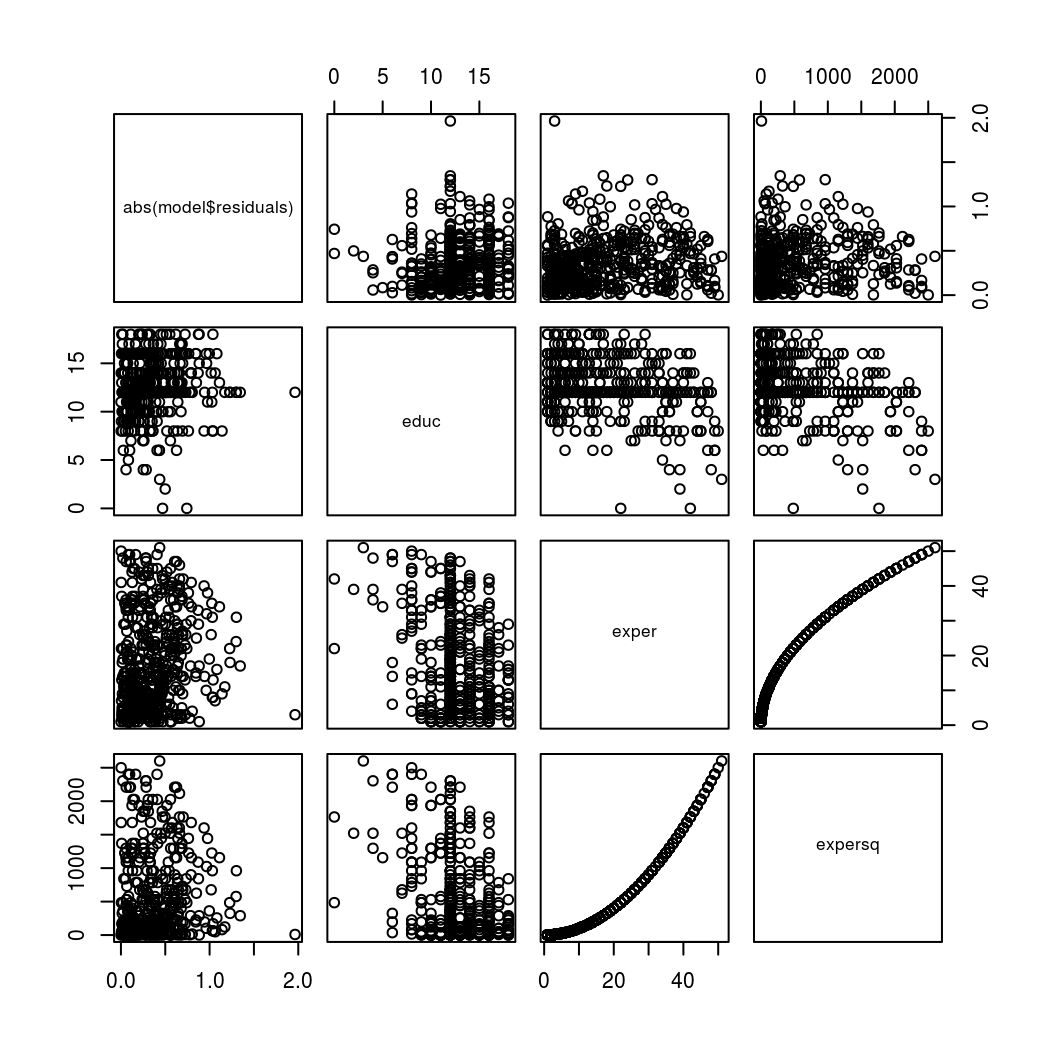
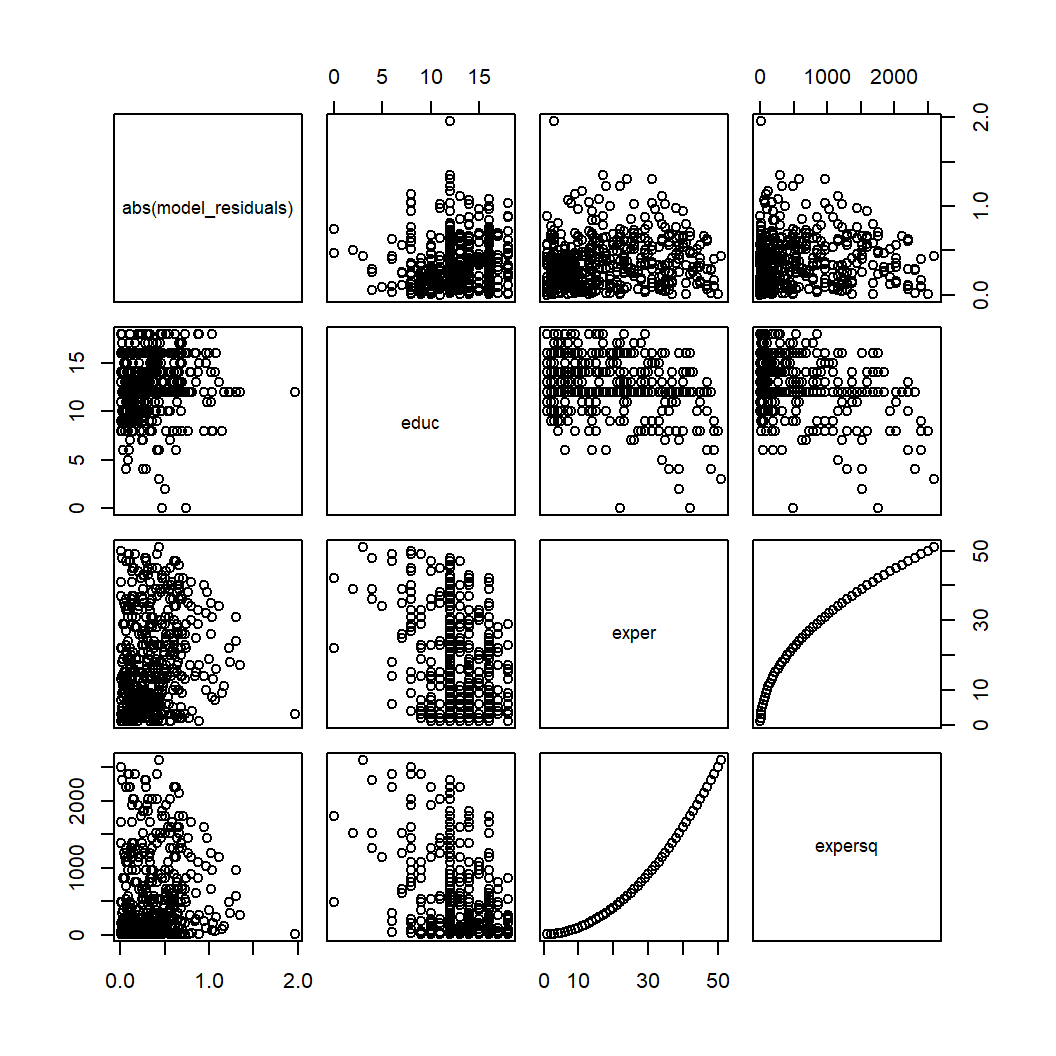
Restyle the code of the test statistics page
Quoted library() calls, [["name"]] accessors and aligned arguments.
The residuals that the normality and heteroskedasticity checks use are
taken once as model_residuals, so the tests print "data:
model_residuals" and the histogram and scatterplot matrix are labelled
with that name instead of model$residuals. Every number is unchanged;
the figures differ only in those labels and in font rendering.

diff --git a/content/methods/teststats.html b/content/methods/teststats.html
@@ -17,7 +17,8 @@ tags:
 <h2>Data and model</h2>
 <p>To illustrate the calculation of test statistics in R, let’s use the <em>wage1</em> dataset from the <code>wooldridge</code> package and estimate a basic <a href="https://en.wikipedia.org/wiki/Mincer_earnings_function" target="_blank">Mincer earnings function</a>. This standard specification of earnings models explains the natural log of average hourly earnings <code>lwage</code> by years of education <code>educ</code> and experience <code>exper</code>. The standard specification also includes squared values of experience <code>expersq</code> to take into account potential decreasing marginal effects.</p>
 <pre class="r"><code># Load dataset
-library(wooldridge)
+library(&quot;wooldridge&quot;)
+
 data(&quot;wage1&quot;)
 
 # Estimate a model
@@ -47,7 +48,7 @@ model &lt;- lm(lwage ~ educ + exper + expersq, data = wage1)</code></pre>
 ## Signif. codes:  0 &#39;***&#39; 0.001 &#39;**&#39; 0.01 &#39;*&#39; 0.05 &#39;.&#39; 0.1 &#39; &#39; 1
 ## 
 ## Residual standard error: 0.4459 on 522 degrees of freedom
-## Multiple R-squared:  0.3003, Adjusted R-squared:  0.2963 
+## Multiple R-squared:  0.3003,	Adjusted R-squared:  0.2963 
 ## F-statistic: 74.67 on 3 and 522 DF,  p-value: &lt; 2.2e-16</code></pre>
 <p>The t values for our benchmark model indicate that, except for the constant, all variables are statistically significant. You might think about dropping the intercept term at this point, but let’s forget about this for the moment.</p>
 </div>
@@ -56,7 +57,8 @@ model &lt;- lm(lwage ~ educ + exper + expersq, data = wage1)</code></pre>
 <p>F tests can be used to check, whether one or multiple variables in a model are statistically significant. Basically, the test compares two models with each other, where one model is a special case of the other. This means that we compare a model with more variables - the so-called <em>unrestricted</em> model - to a model with less but otherwise the same variables, i.e. the <em>restriced</em> or nested model. If the additional predictive power of the unrestricted model is sufficiently higher, the variables are jointly significant.</p>
 <p>In our example we add the <code>tenure</code> variable and its square <code>tenuresq</code> to the model equation. This model is now the unrestricted model, which we have to estimate before we can calculate the F test.</p>
 <pre class="r"><code># Estimate unrestricted model
-model_unres &lt;- lm(lwage ~ educ + exper + expersq + tenure + tenursq, data = wage1)
+model_unres &lt;- lm(lwage ~ educ + exper + expersq + tenure + tenursq,
+                  data = wage1)
 
 summary(model_unres)</code></pre>
 <pre><code>## 
@@ -80,7 +82,7 @@ summary(model_unres)</code></pre>
 ## Signif. codes:  0 &#39;***&#39; 0.001 &#39;**&#39; 0.01 &#39;*&#39; 0.05 &#39;.&#39; 0.1 &#39; &#39; 1
 ## 
 ## Residual standard error: 0.425 on 520 degrees of freedom
-## Multiple R-squared:  0.3669, Adjusted R-squared:  0.3608 
+## Multiple R-squared:  0.3669,	Adjusted R-squared:  0.3608 
 ## F-statistic: 60.26 on 5 and 520 DF,  p-value: &lt; 2.2e-16</code></pre>
 <p>The t values of the new model indicate that all variabes - including the constant - are individually, statistically significant. Thus, the variable <code>tenure</code> provides additional explanatory power to the model. Since <code>tenure</code> also enters in its squared form, we are interested in the joint significance of the tenure terms. This can be checked with an F test, which can be calculated by using the <code>anova</code> function in R. We only have to provide the two estimated models as arguments:</p>
 <pre class="r"><code>anova(model, model_unres)</code></pre>
@@ -106,41 +108,43 @@ summary(model_unres)</code></pre>
 <ul>
 <li>Eyeball test: A rather intuitive way to test for normality is to simply look at the histogram of the model residuals:</li>
 </ul>
-<pre class="r"><code>hist(model$residuals, breaks = 20)</code></pre>
-<p><img src="/methods/teststats_files/figure-html/unnamed-chunk-2-1.png" width="432" /></p>
+<pre class="r"><code>model_residuals &lt;- model[[&quot;residuals&quot;]]
+
+hist(model_residuals, breaks = 20)</code></pre>
+<p><img src="/methods/teststats_files/figure-html/unnamed-chunk-2-1.png" alt="" width="432" /></p>
 <p>Since the shape of the histogram resembles the famous bell shape of a normal distribution, this looks pretty normal to me. However, there are more formal ways to test for normality, which are required by a more sophisticated audience than me…</p>
 <ul>
 <li>The <a href="https://en.wikipedia.org/wiki/Shapiro%E2%80%93Wilk_test" target="_blank">Shapiro-Wilk test</a> is considered to be a very reliable test for normality. It is implemented in the <code>shapiro.test</code> function of the <code>stats</code> package:</li>
 </ul>
-<pre class="r"><code>shapiro.test(model$residuals)</code></pre>
+<pre class="r"><code>shapiro.test(model_residuals)</code></pre>
 <pre><code>## 
-##  Shapiro-Wilk normality test
+## 	Shapiro-Wilk normality test
 ## 
-## data:  model$residuals
+## data:  model_residuals
 ## W = 0.99258, p-value = 0.01031</code></pre>
 <p>The low p-value indicates that the null hypothesis of a normal distribution is not rejected at the 1 percent level.</p>
 <ul>
 <li>The <a href="https://en.wikipedia.org/wiki/Anderson%E2%80%93Darling_test" target="_blank">Anderson–Darling test</a> is also a popular normality test. It also has the advantage that it can be applied to other distributions as well. To test for normal distributions in R, the <code>ad.test</code> function of the <code>nortest</code> package can be used:</li>
 </ul>
-<pre class="r"><code>library(nortest)
+<pre class="r"><code>library(&quot;nortest&quot;)
 
-ad.test(model$residuals)</code></pre>
+ad.test(model_residuals)</code></pre>
 <pre><code>## 
-##  Anderson-Darling normality test
+## 	Anderson-Darling normality test
 ## 
-## data:  model$residuals
+## data:  model_residuals
 ## A = 0.86991, p-value = 0.02559</code></pre>
 <p>The low p-value also indicates that the null hypothesis of a normal distribution is not rejected at the 2.56 percent level.</p>
 <ul>
 <li>The <a href="https://en.wikipedia.org/wiki/Jarque%E2%80%93Bera_test" target="_blank">Jarque-Bera test</a> tests whether the skewness and kurtosis of a model’s residuals match the expected values for normal distribution. In R the function <code>jarque.bera.test</code> of the <code>tseries</code> packages and the function <code>jarque.test</code> in the <code>moments</code> package are, among others, implementations of this test:</li>
 </ul>
-<pre class="r"><code>library(tseries)
+<pre class="r"><code>library(&quot;tseries&quot;)
 
-jarque.bera.test(model$residuals)</code></pre>
+jarque.bera.test(model_residuals)</code></pre>
 <pre><code>## 
-##  Jarque Bera Test
+## 	Jarque Bera Test
 ## 
-## data:  model$residuals
+## data:  model_residuals
 ## X-squared = 7.1519, df = 2, p-value = 0.02799</code></pre>
 <p>Again, the low p-value of the Jarque-Bera test indicates that the skewness and kurtosis of the test are not significantly different from their expected values for normal distribution. Thus, the distribution of the model residuals seems statistically not different from a normal distribution.</p>
 </div>
@@ -163,20 +167,20 @@ jarque.bera.test(model$residuals)</code></pre>
 <li>Eyeball test: One way to check for heteroskedasticity is to look at a plot, where the absolute values of the residuals - or the squared residuals - are plotted against the regressors of the model. If the size of the absolute (or squared) errors appears to vary with the size of a regressor, this migth indicate heteroskedasticity.</li>
 </ul>
 <pre class="r"><code># Create plot input
-hetsk_data &lt;- cbind(abs(model$residuals), model$model[, -1])
+hetsk_data &lt;- cbind(abs(model_residuals), model[[&quot;model&quot;]][, -1])
 
 # Scatterplot matrix
 plot(hetsk_data)</code></pre>
-<p><img src="/methods/teststats_files/figure-html/heterosk_eyeball-1.png" width="528" /></p>
+<p><img src="/methods/teststats_files/figure-html/heterosk_eyeball-1.png" alt="" width="528" /></p>
 <p>By looking at the first row of the above scatter plot we might notice that the absolute errors seem to be larger for higher values of <code>educ</code> and lower for higher values of <code>expersq</code>. This might warrant to test this more formally.</p>
 <ul>
 <li>The <a href="https://en.wikipedia.org/wiki/Breusch%E2%80%93Pagan_test" target="_blank">Breusch-Pagan test</a> is implemented in the function <code>pbtest</code> both of the <code>AER</code> and <code>lmtest</code> package and tests whether the variance of a model’s residuals dependents on the values of the regressors.</li>
 </ul>
-<pre class="r"><code>library(AER)
+<pre class="r"><code>library(&quot;AER&quot;)
 
 bptest(model)</code></pre>
 <pre><code>## 
-##  studentized Breusch-Pagan test
+## 	studentized Breusch-Pagan test
 ## 
 ## data:  model
 ## BP = 19.84, df = 3, p-value = 0.0001832</code></pre>
@@ -185,18 +189,18 @@ bptest(model)</code></pre>
 </ul>
 <pre class="r"><code>bptest(model, ~ lwage + I(lwage^2), data = wage1)</code></pre>
 <pre><code>## 
-##  studentized Breusch-Pagan test
+## 	studentized Breusch-Pagan test
 ## 
 ## data:  model
 ## BP = 319.9, df = 2, p-value &lt; 2.2e-16</code></pre>
 <ul>
 <li>The <a href="https://en.wikipedia.org/wiki/Goldfeld%E2%80%93Quandt_test" target="_blank">Goldfeld-Quandt test</a> basically devides the sample into two groups with low and high values of an explanatory variable and compares the variances of two submodels. If the variances differ, this indicates heteroskedasticity. It is implemented in the function <code>gqtest</code> of the <code>lmtest</code> package:</li>
 </ul>
-<pre class="r"><code>library(lmtest)
+<pre class="r"><code>library(&quot;lmtest&quot;)
 
 gqtest(model)</code></pre>
 <pre><code>## 
-##  Goldfeld-Quandt test
+## 	Goldfeld-Quandt test
 ## 
 ## data:  model
 ## GQ = 0.74514, df1 = 259, df2 = 259, p-value = 0.9909
@@ -217,8 +221,9 @@ gqtest(model)</code></pre>
 <div id="hausman-test" class="section level3">
 <h3>Hausman test</h3>
 <p>A popular method to test for correlation between explanatory variables and the error term is the <em>Hausman test</em>. It basically tests whether the results of the IV estimator are significantly different from the OLS estimator. To illustrate this, let’s use the <em>wage2</em> dataset from the <code>wooldridge</code> package and, again, estimate a basic <a href="https://en.wikipedia.org/wiki/Mincer_earnings_function" target="_blank">Mincer earnings function</a> as described above. However, this time we add <code>IQ</code> as a measure of <em>ability</em>. But since it is assumed that the measure is correlated with the error term, we use an additional measure of ability, <code>KWW</code>, as an instrument for <code>IQ</code>.</p>
-<pre class="r"><code>library(dplyr)
-library(wooldridge)
+<pre class="r"><code>library(&quot;dplyr&quot;)
+library(&quot;wooldridge&quot;)
+
 data(&quot;wage2&quot;)
 
 # Add squared experience &quot;expersq&quot;
@@ -226,7 +231,8 @@ wage2 &lt;- wage2 %&gt;%
   mutate(expersq = exper^2)
 
 # IV estimator
-iv_model &lt;- ivreg(lwage ~ educ + exper + expersq + IQ | KWW + educ + exper + expersq,
+iv_model &lt;- ivreg(lwage ~ educ + exper + expersq + IQ |
+                    KWW + educ + exper + expersq,
                   data = wage2)</code></pre>
 <p>The <code>summary</code> function of the <code>ivreg</code> object, performs the Hausman test automatically. We only have to add the argument <code>diagnostics = TRUE</code>.</p>
 <pre class="r"><code>summary(iv_model, diagnostics = TRUE)</code></pre>
@@ -256,7 +262,7 @@ iv_model &lt;- ivreg(lwage ~ educ + exper + expersq + IQ | KWW + educ + exper + 
 ## Signif. codes:  0 &#39;***&#39; 0.001 &#39;**&#39; 0.01 &#39;*&#39; 0.05 &#39;.&#39; 0.1 &#39; &#39; 1
 ## 
 ## Residual standard error: 0.4231 on 930 degrees of freedom
-## Multiple R-Squared: -0.004854,   Adjusted R-squared: -0.009176 
+## Multiple R-Squared: -0.004854,	Adjusted R-squared: -0.009176 
 ## Wald test: 36.38 on 4 and 930 DF,  p-value: &lt; 2.2e-16</code></pre>
 <p>The (Wu-)Hausman test statistic has a very low p-value and, hence, the test rejects the null of no correcation between <code>IQ</code> and the error term in this example.</p>
 </div>
